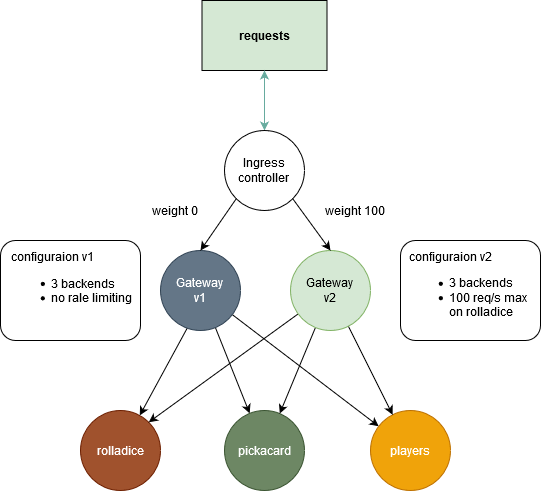
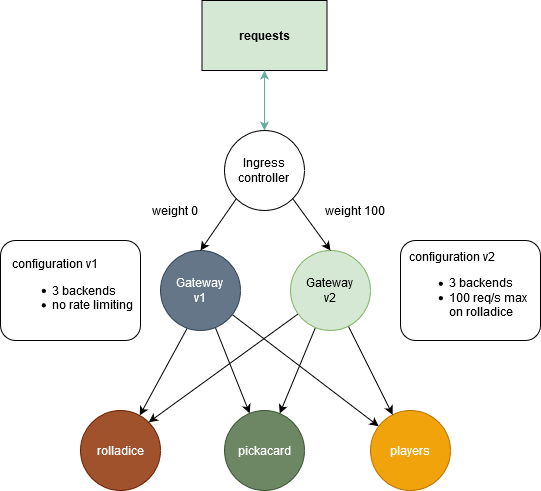
fix spelling

Changed region(s): [[0.0, 0.5193, 0.2662, 0.6415], [0.8577, 0.4888, 0.9168, 0.5499]]

diff --git a/README.md b/README.md
@@ -69,7 +69,7 @@ The complete pipeline is this one :
 
 The monitoring of the state of the gateway and the microservices behind it must be done :
 
-- inside the kubernetes cluster with the collected metrics to ensure that the autosaling policies (cpu,mem,requests/s) are working as expected.
+- inside the kubernetes cluster with the collected metrics to ensure that the autoscaling policies (cpu,mem,requests/s) are working as expected.
 - from recurrent api calls (HTTP/HTTPS) from an external source (pingdom,statuscake,datadog,...)
 - from application metrics and logs observation with an in house monitoring system or from a saas service (datadog,dynatrace,new relic,...) where the logs and metrics are forwarded.
 
@@ -82,7 +82,7 @@ Today, most application monitoring stacks are based on those 4 components :
 - A dashboard creation and presentation service
 - An alerting, scheduling and escalation policies service
 
-So for our application supervision i propose this stack
+So for our application supervision I propose this stack
 
 - **Prometheus** for the metrics and alerting definition
 - **ELK** stack (elasticsearch + logstash + kibana) for the logs
